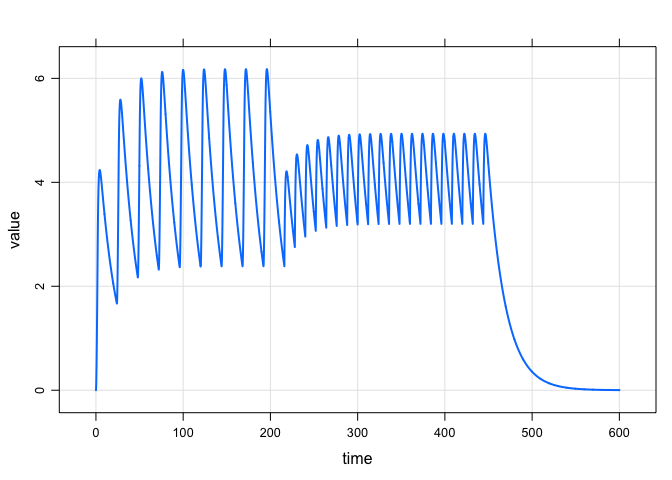
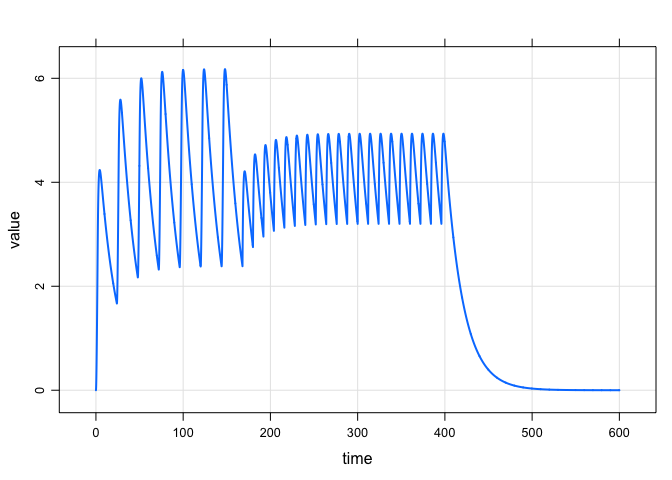
readme

diff --git a/README.md b/README.md
@@ -75,11 +75,12 @@ mod %>%
 
 <img src="inst/maintenance/img/README-unnamed-chunk-7-1.png" style="display: block; margin: auto;" />
 
-A more complicated regimen
+A more complicated regimen: 100 mg infusions over 2 hours every 24 hours
+for one week, followed by 50 mg boluses every 12 hours for 10 days:
 
 ``` r
 mod %>% 
-  ev_rx("100 over 2h q 24 x 9 then 50 q 12 x 20") %>%
+  ev_rx("100 over 2h q 24 x 7 then 50 q 12 x 20") %>%
   mrgsim(end = 600, delta = 0.1) %>% 
   plot(CP~time)
 ```
